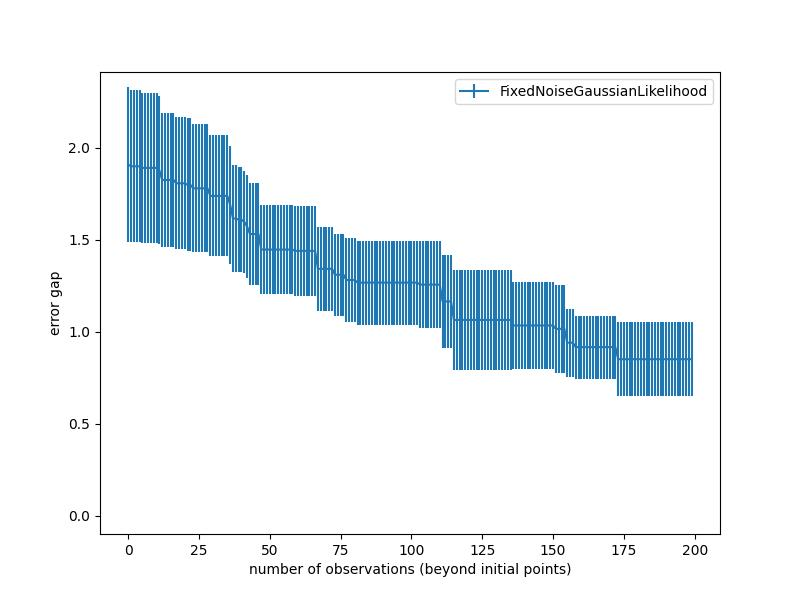
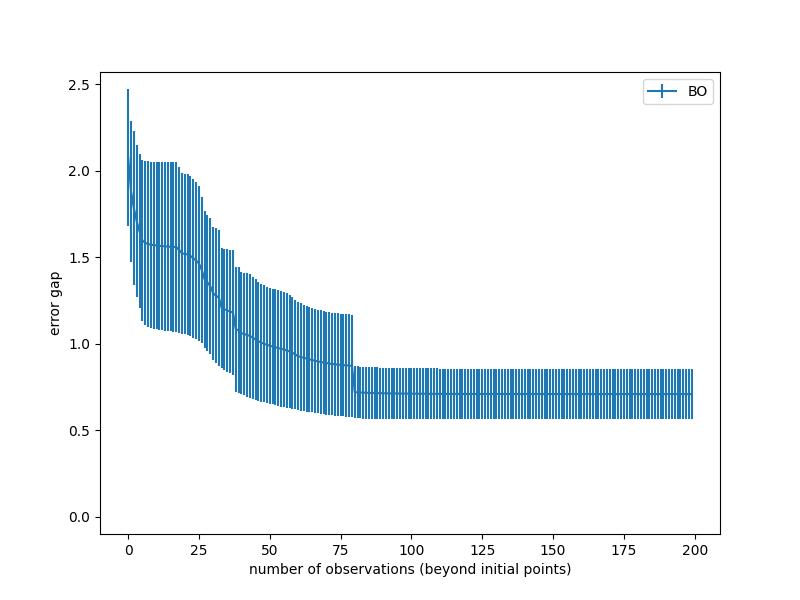
Version 2

diff --git a/Bo.py b/Bo.py
@@ -28,15 +28,18 @@ class BO_Trainer():
     def acquisition(self):
         return self._acquisition
 
-    def generate_model(self, X_sample, Y_sample):
+    def generate_model(self, X_sample, Y_sample, gpr):
 
         mf = ModelFactory()
-        self.gp_model = mf.creat_model(self.model_name, X_sample, Y_sample, self.likelihood).cuda()
+        if gpr:
+            self.gp_model = gpr
+        else:
+            self.gp_model = mf.creat_model(self.model_name, X_sample, Y_sample, self.likelihood).cuda()
         training_iter = 50
 
         # Find optimal model hyperparameters
         self.gp_model.train()
-        self.likelihood.train()
+        self.gp_model.likelihood.train()
 
         # Use the adam optimizer
         optimizer = torch.optim.Adam(self.gp_model.parameters(), lr=0.01)  # Includes GaussianLikelihood parameters
@@ -56,7 +59,7 @@ class BO_Trainer():
             optimizer.step()
         return self.gp_model
 
-    def train(self, test_function, experiments, n_iter, verbose=False):
+    def train(self, test_function, experiments, n_iter, noises, noise_or_not=True, verbose= True):
         Error_gaps_list = []
 
         for i in range(experiments):
@@ -72,20 +75,25 @@ class BO_Trainer():
             Y_sample = train_y
 
             Error_gaps = []
+            gpr = None
 
             for j in range(n_iter):
                 # Update Gaussian process with existing samples
-                gpr = self.generate_model(train_x, train_y)
-
+                gpr = self.generate_model(X_sample, Y_sample, gpr)
                 # Obtain next sampling point from the acquisition function (expected_improvement)
                 X_next = self.acquisition.next_sample(X_sample, Y_sample, gpr, self.test_function.get_bounds())
 
                 # Obtain next noisy sample from the objective function
-                Y_next = torch.tensor(self.test_function.output(X_next))
-
+                Y_next = torch.tensor(self.test_function.output(X_next)).cuda()
+                X_next = torch.tensor(X_next).cuda()
+                if noise_or_not:
+                    new_noise = noises[0].unsqueeze(0).cuda()
+                    gpr = gpr.get_fantasy_model(X_next, Y_next, **{"noise": new_noise}).cuda()
+                else:
+                    gpr = gpr.get_fantasy_model(X_next, Y_next).cuda()
                 # Add sample to previous samples
-                X_sample = torch.tensor(np.vstack((X_sample.cpu(), X_next)))
-                Y_sample = torch.tensor(np.concatenate((Y_sample.cpu(), Y_next)))
+                X_sample = torch.tensor(np.vstack((X_sample.cpu(), X_next.cpu()))).cuda()
+                Y_sample = torch.tensor(np.concatenate((Y_sample.cpu(), Y_next.cpu()))).cuda()
                 min_f_star = self.test_function.get_global_minimum()
                 Error_gaps.append(np.abs(min_f_star - min(Y_sample).item()))
                 if verbose:
@@ -112,7 +120,7 @@ def plot(gaps, n_iter, experiment):
     error_gap_f = np.asarray(gaps)
 
     fig, ax = plt.subplots(1, 1, figsize=(8, 6))
-    ax.errorbar(iters, error_gap_f.mean(axis=0), yerr=ci(error_gap_f), label="FixedNoiseGaussianLikelihood", linewidth=1.5)
+    ax.errorbar(iters, error_gap_f.mean(axis=0), yerr=ci(error_gap_f), label="BO", linewidth=1.5)
 
     ax.set_ylim(bottom=-0.1)
     ax.set(xlabel='number of observations (beyond initial points)', ylabel='error gap')

diff --git a/acquisition.py b/acquisition.py
@@ -3,6 +3,8 @@ from scipy.stats import norm
 from scipy.optimize import minimize
 import torch
 from GP import ModelFactory
+import os
+
 import time
 # def cost_time(func):
 #     def fun(*args, **kwargs):
@@ -22,14 +24,12 @@ class Acquisition(object):
         return self._function( X, X_sample, Y_sample, gpr)
 
 
-    def next_sample(self, X_sample, Y_sample, gpr, bounds, n_restarts=25, Noise = True):
-        gpr.eval()
-        gpr.likelihood.eval()
+    def next_sample(self, X_sample, Y_sample, gpr, bounds, n_restarts= 25, Noise = True):
         dim = X_sample.shape[1]
         min_val = 1e9
         min_x = None
 
-
+        #mu_sample = mf.get_output(X_sample.cuda(), gpr, return_std=False)
         def min_obj(X):
             return -self.function(X.reshape(-1, dim), X_sample, Y_sample, gpr)
 
@@ -40,11 +40,10 @@ class Acquisition(object):
         #     return -fun(X)
 
             # Find the best optimum by starting from n_restart different random points.
-        def min(min_obj):
-            return minimize(min_obj, x0=x0, bounds=None, method='L-BFGS-B')
+
         for x0 in np.random.uniform(bounds[:, 0], bounds[:, 1], size=(n_restarts, dim)):
-            #res = minimize(min_obj, x0=x0, bounds=None, method='L-BFGS-B')
-            res = min(min_obj)
+            res = minimize(min_obj, x0=x0, bounds=None, method='L-BFGS-B')
+            #res = min(min_obj)
             if res.fun < min_val:
                 min_val = res.fun
                 min_x = res.x
@@ -53,23 +52,22 @@ class Acquisition(object):
 
 def expected_improvement(X, X_sample, Y_sample, gpr, trade_off, Noise = True):
     mu, sigma = mf.get_output(torch.tensor(X).cuda(), gpr, return_std=True)
-
+    mu_sample = mf.get_output(X_sample.cuda(), gpr, return_std=False)
 
     sigma = sigma.reshape(-1, 1)
 
     # otherwise use np.max(Y_sample).
     if Noise:
-        mu_sample = mf.get_output(X_sample.cuda(), gpr, return_std=False)
         mu_sample_opt = np.max(mu_sample)
     else:
         mu_sample_opt = np.max(Y_sample)
 
     with np.errstate(divide='warn'):
-        imp = mu - mu_sample_opt - trade_off
+        imp = mu_sample_opt - mu - trade_off
         Z = imp / sigma
-        ei = imp * norm.cdf(Z) * sigma + sigma * norm.pdf(Z)
-
-    return ei[0][0]
+        ei = imp * norm.cdf(Z) + sigma * norm.pdf(Z)
+        ei[sigma == 0.0] = 0.0
+    return ei[0]
 
 class EI(Acquisition):
     def __init__(self, trade_off = 0.01, Noise = True):

diff --git a/test.py b/test.py
@@ -6,7 +6,8 @@ import gpytorch
 import torch
 import numpy as np
 from matplotlib import pyplot as plt
-
+import os
+smoke_test = ('CI' in os.environ)
 
 
 
@@ -19,9 +20,10 @@ if __name__ == '__main__':
         model_name = "ExactGP"
         acq = EI()
         noises = torch.ones(20) * 0.01
-        likelihood = gpytorch.likelihoods.FixedNoiseGaussianLikelihood(noise=noises, learn_additional_noise=True).cuda()
+        likelihood = gpytorch.likelihoods.GaussianLikelihood()
+        #likelihood = gpytorch.likelihoods.FixedNoiseGaussianLikelihood(noise=noises, learn_additional_noise=True).cuda()
         trainer = BO_Trainer(test_function,  acq, likelihood, model_name)
-        trainer.train(test_function, 10, 200)
+        trainer.train(test_function, 10, 200, noises, noise_or_not=False)
 
 
 

diff --git a/GP.py b/GP.py
@@ -45,13 +45,14 @@ class ModelFactory:
         else:
             raise TypeError("No such model %s" % name)
     def get_output(self, X, model, return_std=True):
-
+        model.eval()
+        model.likelihood.eval()
         if not isinstance(X, torch.Tensor):
             X = torch.tensor(X)
 
-
-        pred_y = model.forward(X.cuda())
-        # pred_y = model.likelihood(pred_y)
+        with torch.no_grad():
+            pred_y = model(X.cuda())
+        #pred_y = model.likelihood(pred)
         mu = pred_y.mean.detach().cpu().numpy()
         std = np.sqrt(pred_y.variance.detach().cpu().numpy())
         if return_std:

diff --git a/README.md b/README.md
@@ -18,8 +18,7 @@ Then we need to choose our GP model and Likelihood.
 import gpytorch
 import torch
 model_name = "ExactGP"
-noises = torch.ones(20) * 0.01
-likelihood = gpytorch.likelihoods.FixedNoiseGaussianLikelihood(noise=noises, learn_additional_noise=True).cuda()
+likelihood = gpytorch.likelihoods.GaussianLikelihood()
 ```
 Here we do not instantiate the GP model because each iteration of the experiment creates a new model. To control the instantiation and prediction capabilities of GP models during BO training, we wrote a **ModelFactory** Class in ```GP.py.```<br>
 <br>
@@ -32,7 +31,7 @@ Finally, the training function of the BO trainer is used to optimize the test fu
 ```python
 from Bo import BO_Trainer
 trainer = BO_Trainer(test_function,  acq, likelihood, model_name)
-trainer.train(test_function, 10, 200)
+trainer.train(test_function, 10, 200, noises, noise_or_not=False)
 ```
 The whole running process code is as follows
 ```python
@@ -46,9 +45,9 @@ test_function = Hartmann6D()
 model_name = "ExactGP"
 acq = EI()
 noises = torch.ones(20) * 0.01
-likelihood = gpytorch.likelihoods.FixedNoiseGaussianLikelihood(noise=noises, learn_additional_noise=True).cuda()
+likelihood = gpytorch.likelihoods.GaussianLikelihood()
 trainer = BO_Trainer(test_function,  acq, likelihood, model_name)
-trainer.train(test_function, 10, 200)
+trainer.train(test_function, 10, 200, noises, noise_or_not=False)
 ```
 
 ## Results<a name="result"></a>
